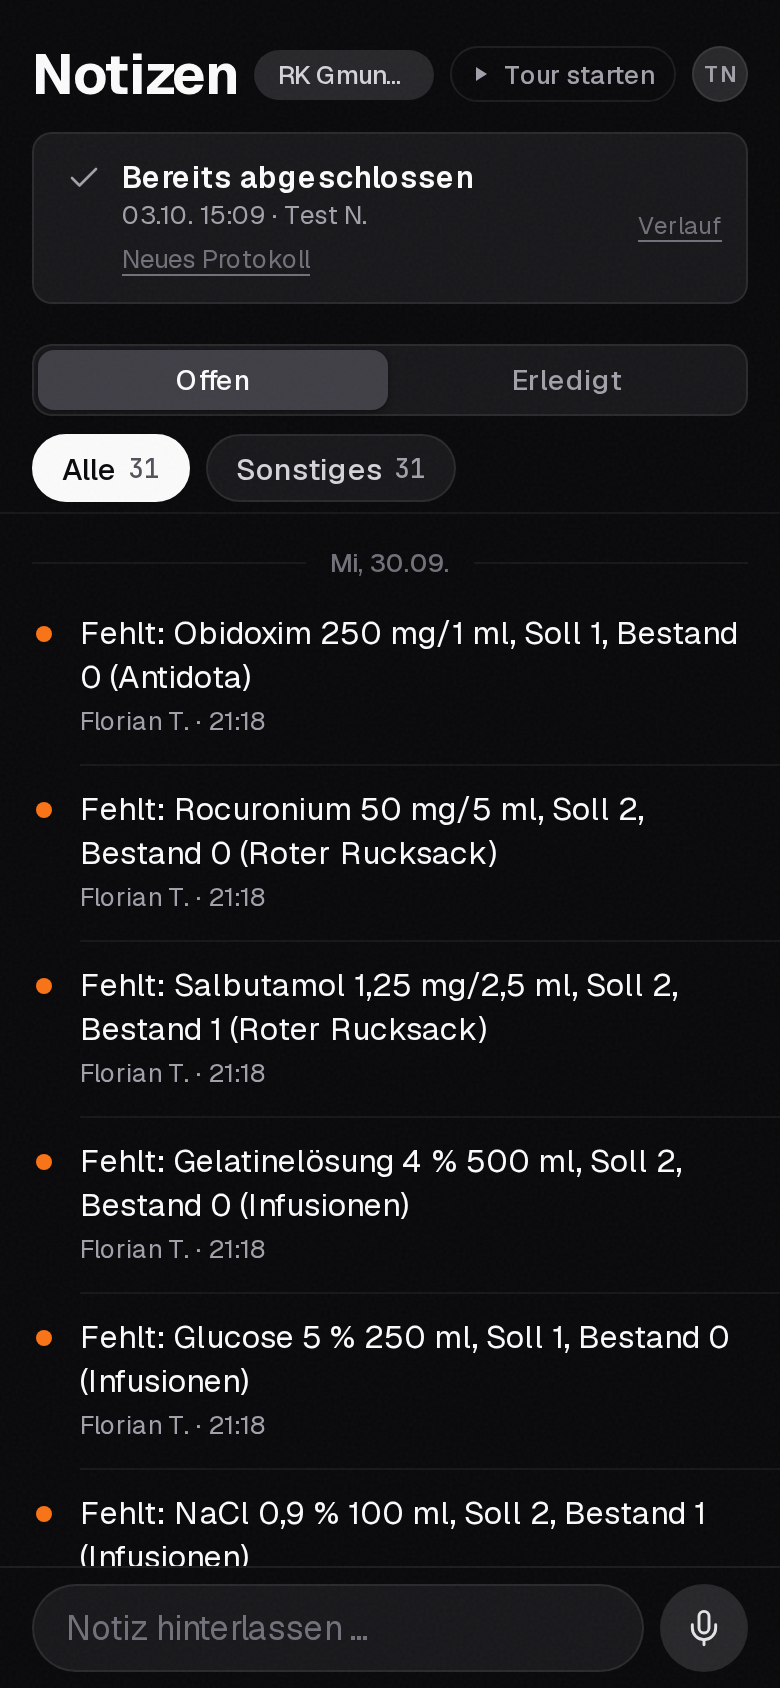
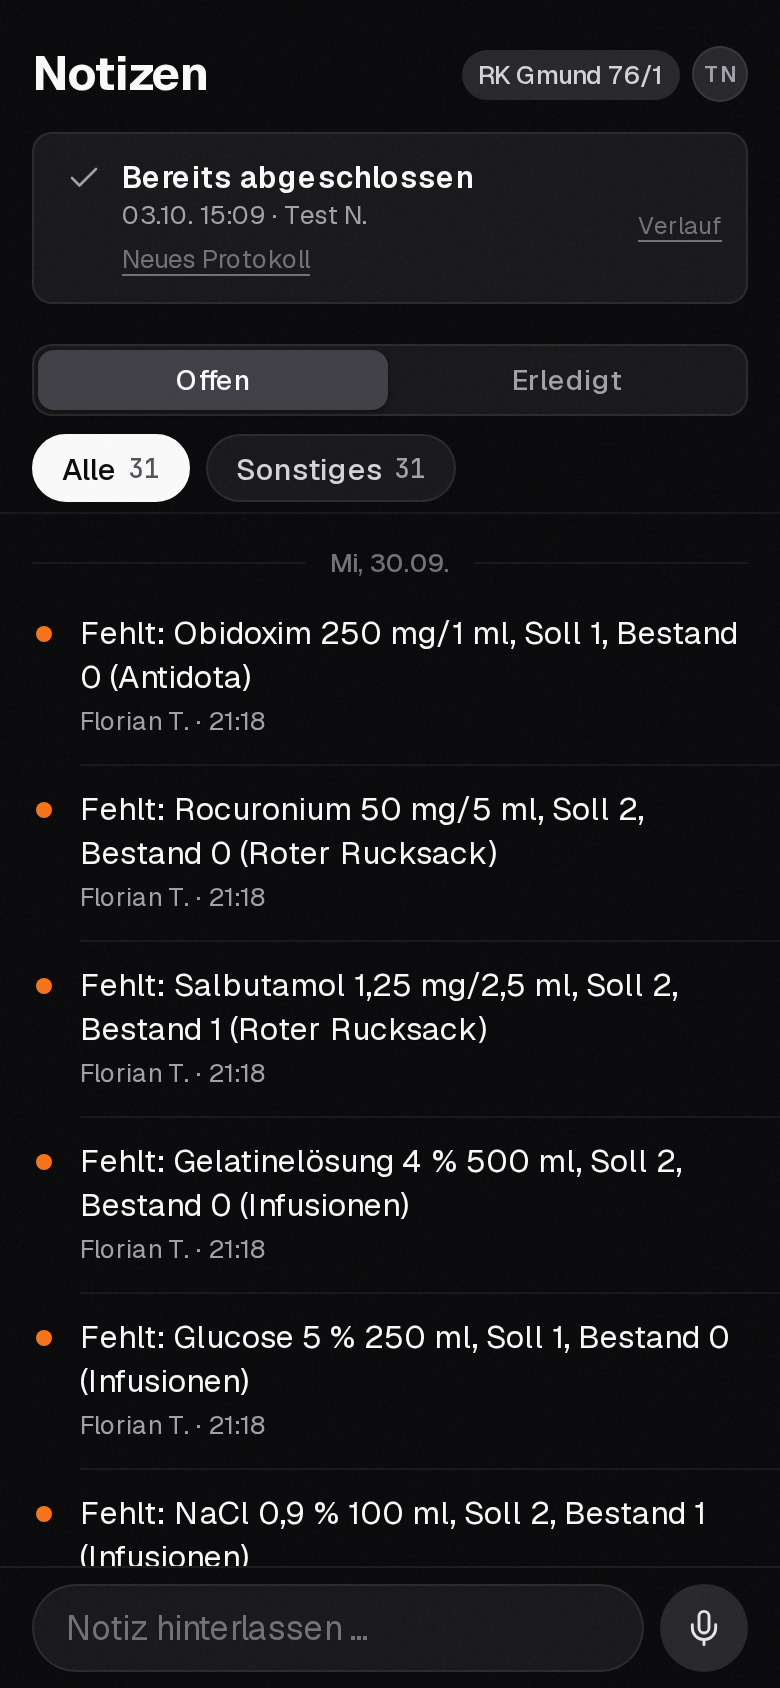
HAZ-136: re-proof at f06efb1 (tour removed), timings

Changed region(s): [[0.0308, 0.0308, 0.5538, 0.0616], [0.5846, 0.0308, 0.8923, 0.0616]]

diff --git a/proof/HAZ-136/timings.md b/proof/HAZ-136/timings.md
@@ -1,26 +1,31 @@
 # HAZ-136 timings
 
-Time to a usable protocol page (checklist entry card / checklist loaded), staff test account, Playwright Chromium, DPR 2, 5 runs each, median shown. Login = click Anmelden until usable. Reload = page reload until usable. Requests = Supabase requests in the window (median).
+Time to a usable protocol page (protocol card visible), staff test account, Playwright Chromium, DPR 2, 5 runs each, median shown. Head f06efb1 (tour removed), preview https://nef-rbsyadrij-florian-thompsons-projects-c1c41a9c.vercel.app.
 
-| Width | Build | Login median (s) | Reload median (s) | Login req | Reload req |
-|---|---|---|---|---|---|
-| 390 | Prod (old /app) | 9.42 | 7.97 | 66 | 96 |
-| 390 | PR #10 preview | 2.35 | 1.43 | 29 | 36 |
-| 390 | This PR | 1.36 | 0.91 | 11 | 10 |
-| 1440 | Prod (old /app) | 9.39 | 8.08 | 66 | 94 |
-| 1440 | PR #10 preview | 2.35 | 1.44 | 29 | 36 |
-| 1440 | This PR | 1.34 | 0.92 | 11 | 10 |
+The session is restored from a Playwright storage state (no password login), so "First load" is a cold context opening /app with a stored session and "Reload" is a page reload. The earlier password login numbers for older builds are kept below for reference.
+
+| Width | Build | First load median (s) | Reload median (s) |
+|---|---|---|---|
+| 390 | This PR at f06efb1 | 1.79 | 0.95 |
+| 1440 | This PR at f06efb1 | 1.95 | 1.34 |
 
 ## Raw runs (s)
 
-- 390 Prod (old /app): login [17.99, 9.42, 9.38, 9.02, 10.4], reload [8.99, 7.97, 8.03, 7.94, 7.94]
-- 390 PR #10 preview: login [2.41, 2.34, 2.35, 2.85, 2.35], reload [1.65, 1.39, 1.91, 1.41, 1.43]
-- 390 This PR: login [3.37, 1.84, 1.36, 1.34, 1.35], reload [1.08, 0.89, 0.89, 1.38, 0.91]
-- 1440 Prod (old /app): login [9.98, 8.87, 9.38, 9.39, 44.81], reload [7.99, 7.97, 8.12, 8.08, 8.5]
-- 1440 PR #10 preview: login [2.36, 2.35, 2.35, 2.34, 2.34], reload [1.44, 1.61, 1.42, 1.92, 1.43]
-- 1440 This PR: login [1.37, 1.34, 1.35, 1.34, 1.34], reload [0.93, 0.94, 0.91, 0.91, 0.92]
+- 390: first load [1.92, 1.79, 1.42, 1.45, 1.83], reload [0.93, 0.94, 0.99, 0.95, 0.99]
+- 1440: first load [1.9, 1.37, 6.49, 1.95, 2.7], reload [3.05, 2.16, 1.22, 1.34, 1.14]
 
-Notes: the first run per session hits cold Vercel/Supabase (3.4 s once at 390, 5.4 s once at 1440 after). Prod used the old page ("Fahrzeug-Übergabecheck" visible); the preview builds use the v19 screen (protocol card visible).
+Notes: 1440 shows cold start outliers (6.49 s first load, 3.05 s reload); medians stay under 2 s. At 390 every run is under 2 s.
+
+## Earlier baseline (password login, previous head 2c6c632)
+
+| Width | Build | Login median (s) | Reload median (s) |
+|---|---|---|---|
+| 390 | Prod (old /app) | 9.42 | 7.97 |
+| 390 | PR #10 preview | 2.35 | 1.43 |
+| 390 | This PR (2c6c632) | 1.36 | 0.91 |
+| 1440 | Prod (old /app) | 9.39 | 8.08 |
+| 1440 | PR #10 preview | 2.35 | 1.44 |
+| 1440 | This PR (2c6c632) | 1.34 | 0.92 |
 
 ## Findings
 
